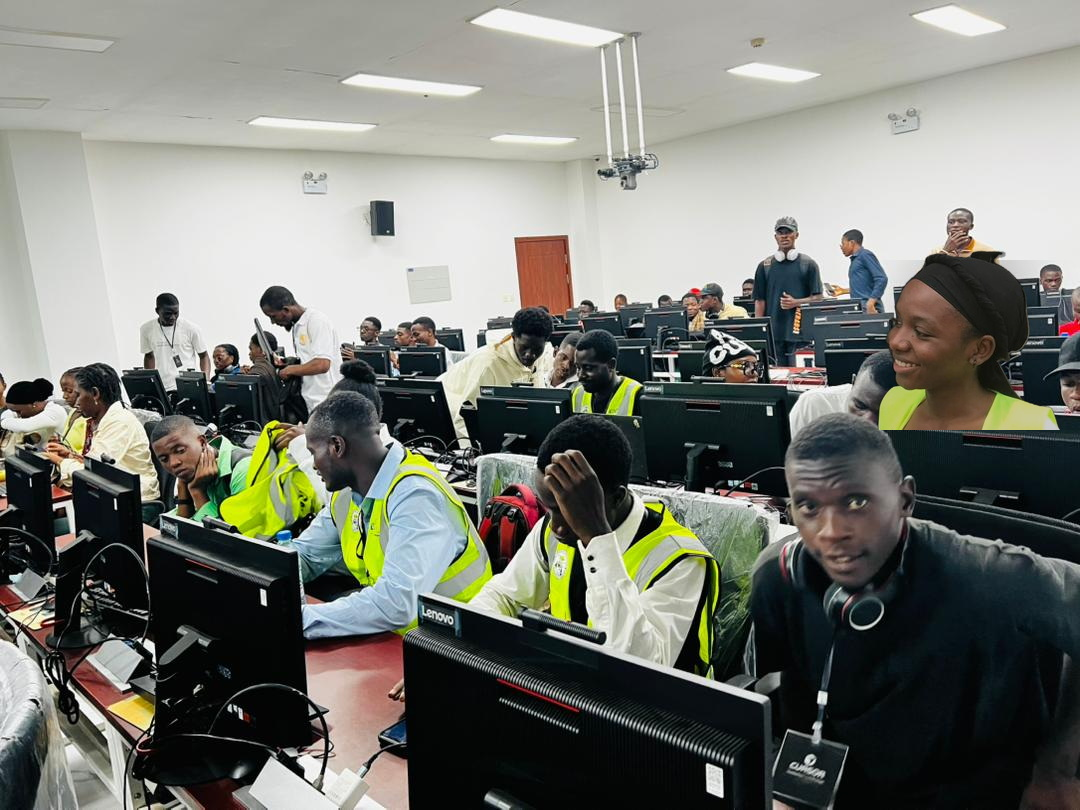
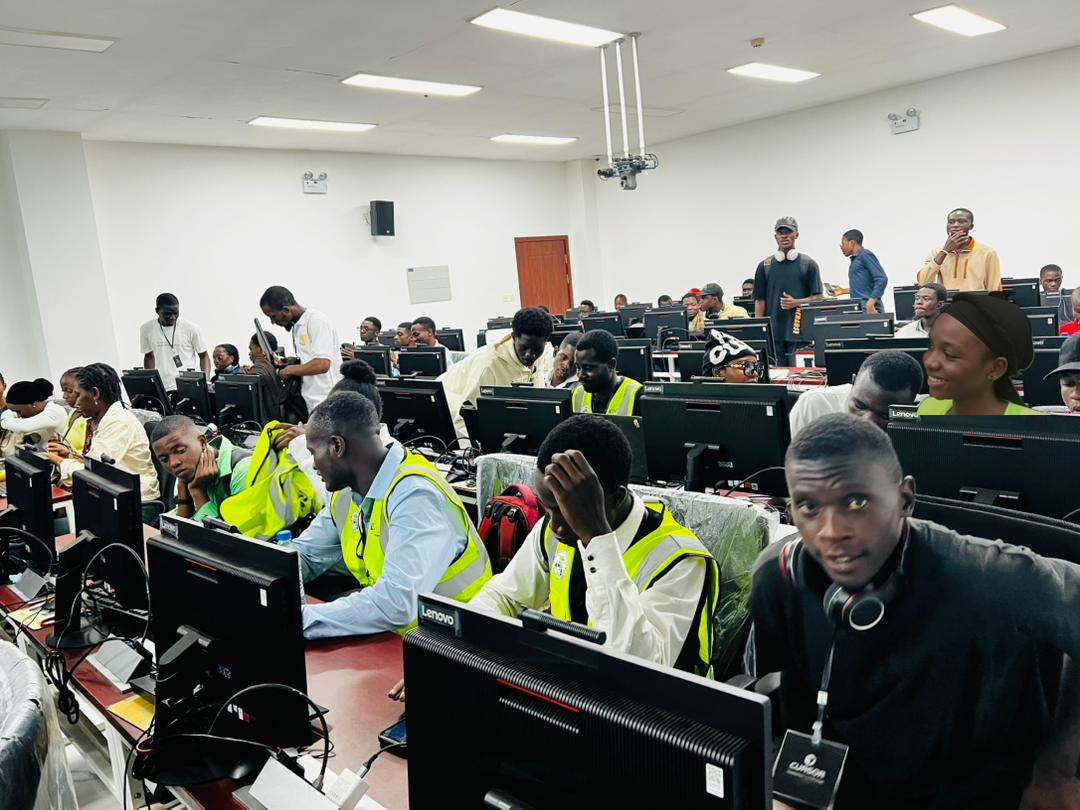
Ameliorer les placements des montages photo

Changed region(s): [[0.7944, 0.3086, 0.9778, 0.5556], [0.9472, 0.4012, 0.9778, 0.4321]]

diff --git a/scripts/retouche_photos.py b/scripts/retouche_photos.py
@@ -12,81 +12,83 @@ CUTOUT = OUTPUT_DIR / "personne_detouree.png"
 TARGETS = [
     {
         "name": "WhatsApp Image 2026-06-17 at 2.40.25 PM.jpeg",
-        "height": 455,
-        "x": 22,
-        "y": 355,
-        "brightness": 0.93,
-        "contrast": 0.94,
-        "color": 0.92,
-        "shadow": (14, 16, 32, 92),
+        "height": 300,
+        "x": 55,
+        "y": 220,
+        "brightness": 0.88,
+        "contrast": 0.92,
+        "color": 0.86,
+        "shadow": (8, 10, 24, 82),
+        "occlusions": [(0, 318, 355, 810)],
     },
     {
         "name": "WhatsApp Image 2026-06-17 at 2.40.29 PM.jpeg",
-        "height": 350,
-        "x": 775,
-        "y": 245,
+        "height": 275,
+        "x": 835,
+        "y": 285,
         "flip": True,
-        "brightness": 1.08,
+        "brightness": 1.00,
         "contrast": 0.96,
-        "color": 0.94,
-        "shadow": (8, 10, 26, 76),
-        "occlusions": [(720, 430, 1080, 640)],
+        "color": 0.88,
+        "shadow": (6, 8, 22, 64),
+        "occlusions": [(785, 410, 1080, 640)],
     },
     {
         "name": "WhatsApp Image 2026-06-17 at 2.40.29 PM(1).jpeg",
-        "height": 350,
-        "x": 785,
-        "y": 250,
+        "height": 275,
+        "x": 842,
+        "y": 290,
         "flip": True,
-        "brightness": 1.07,
+        "brightness": 1.00,
         "contrast": 0.96,
-        "color": 0.94,
-        "shadow": (8, 10, 26, 76),
-        "occlusions": [(720, 430, 1080, 640)],
+        "color": 0.88,
+        "shadow": (6, 8, 22, 64),
+        "occlusions": [(790, 415, 1080, 640)],
     },
     {
         "name": "WhatsApp Image 2026-06-17 at 4.04.16 PM.jpeg",
-        "height": 530,
-        "x": 28,
-        "y": 710,
+        "height": 180,
+        "x": 388,
+        "y": 366,
         "angle": -8,
-        "brightness": 0.98,
-        "contrast": 0.96,
-        "color": 0.94,
-        "shadow": (12, 18, 34, 86),
-        "occlusions": [(0, 1040, 960, 1280)],
+        "brightness": 0.82,
+        "contrast": 0.90,
+        "color": 0.80,
+        "shadow": (5, 7, 18, 62),
+        "occlusions": [(350, 470, 560, 565)],
     },
     {
         "name": "WhatsApp Image 2026-06-17 at 4.04.17 PM.jpeg",
-        "height": 500,
-        "x": 18,
-        "y": 720,
+        "height": 275,
+        "x": 170,
+        "y": 555,
         "angle": -11,
-        "brightness": 0.89,
+        "brightness": 0.78,
         "contrast": 0.92,
-        "color": 0.88,
-        "shadow": (12, 18, 34, 98),
-        "occlusions": [(0, 960, 960, 1280)],
+        "color": 0.80,
+        "shadow": (6, 8, 22, 74),
+        "occlusions": [(0, 700, 520, 1280)],
     },
     {
         "name": "WhatsApp Image 2026-06-17 at 4.16.54 PM.jpeg",
-        "height": 450,
-        "x": 128,
-        "y": 350,
-        "brightness": 0.86,
+        "height": 315,
+        "x": 190,
+        "y": 318,
+        "brightness": 0.78,
         "contrast": 0.91,
-        "color": 0.88,
-        "shadow": (10, 14, 28, 92),
+        "color": 0.78,
+        "shadow": (7, 9, 22, 78),
+        "occlusions": [(250, 438, 670, 810)],
     },
     {
         "name": "WhatsApp Image 2026-06-17 at 4.16.54 PM(1).jpeg",
-        "height": 430,
-        "x": 18,
-        "y": 360,
-        "brightness": 0.80,
+        "height": 300,
+        "x": 35,
+        "y": 390,
+        "brightness": 0.70,
         "contrast": 0.90,
-        "color": 0.84,
-        "shadow": (10, 14, 30, 112),
+        "color": 0.76,
+        "shadow": (7, 10, 24, 94),
     },
 ]
 
